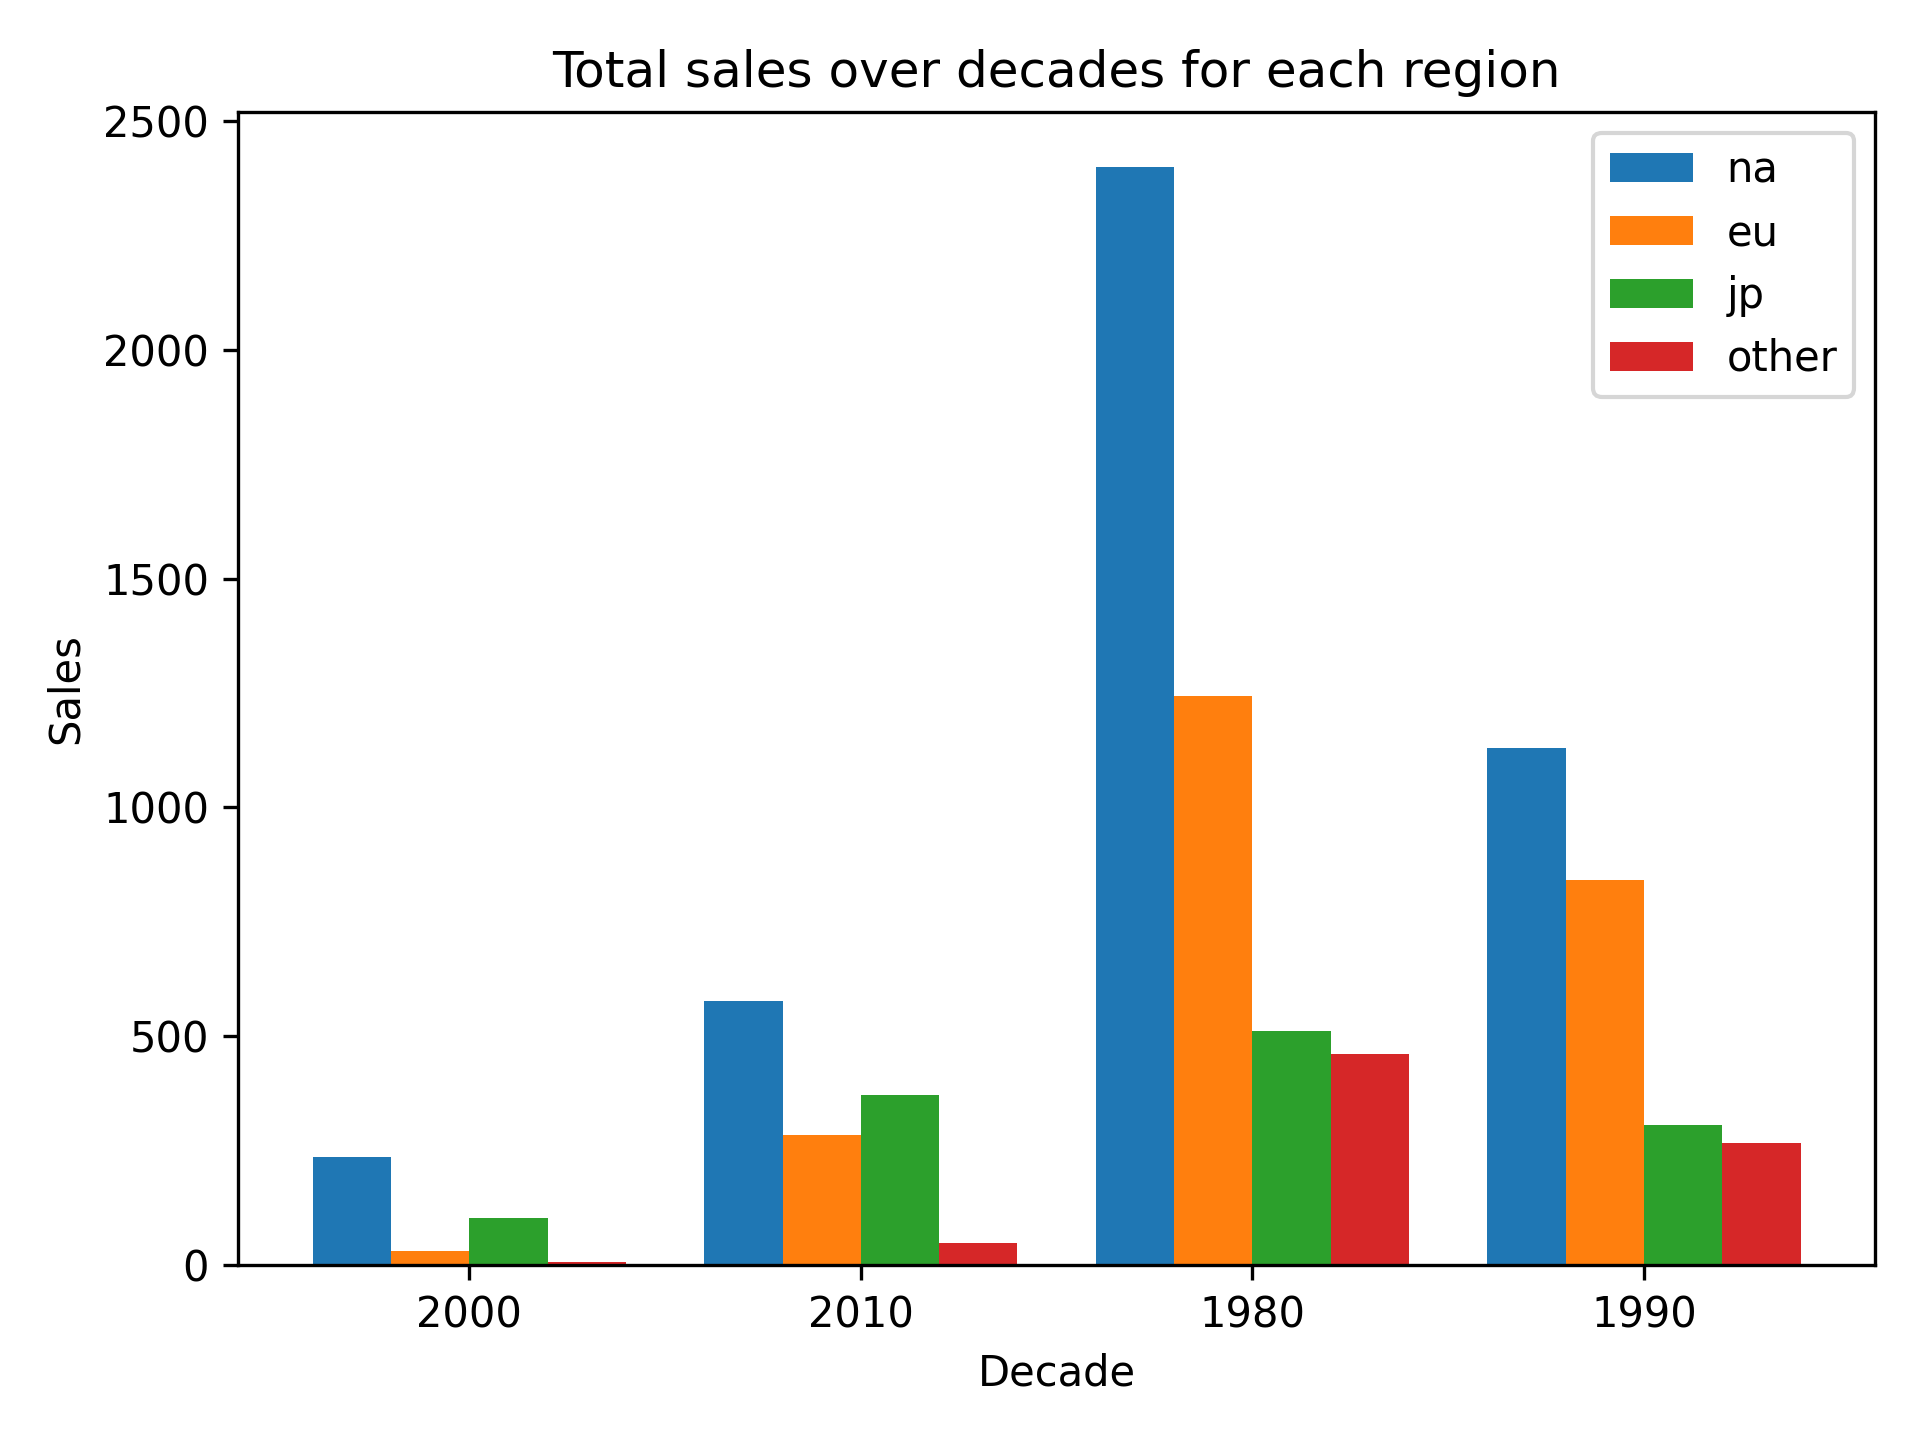
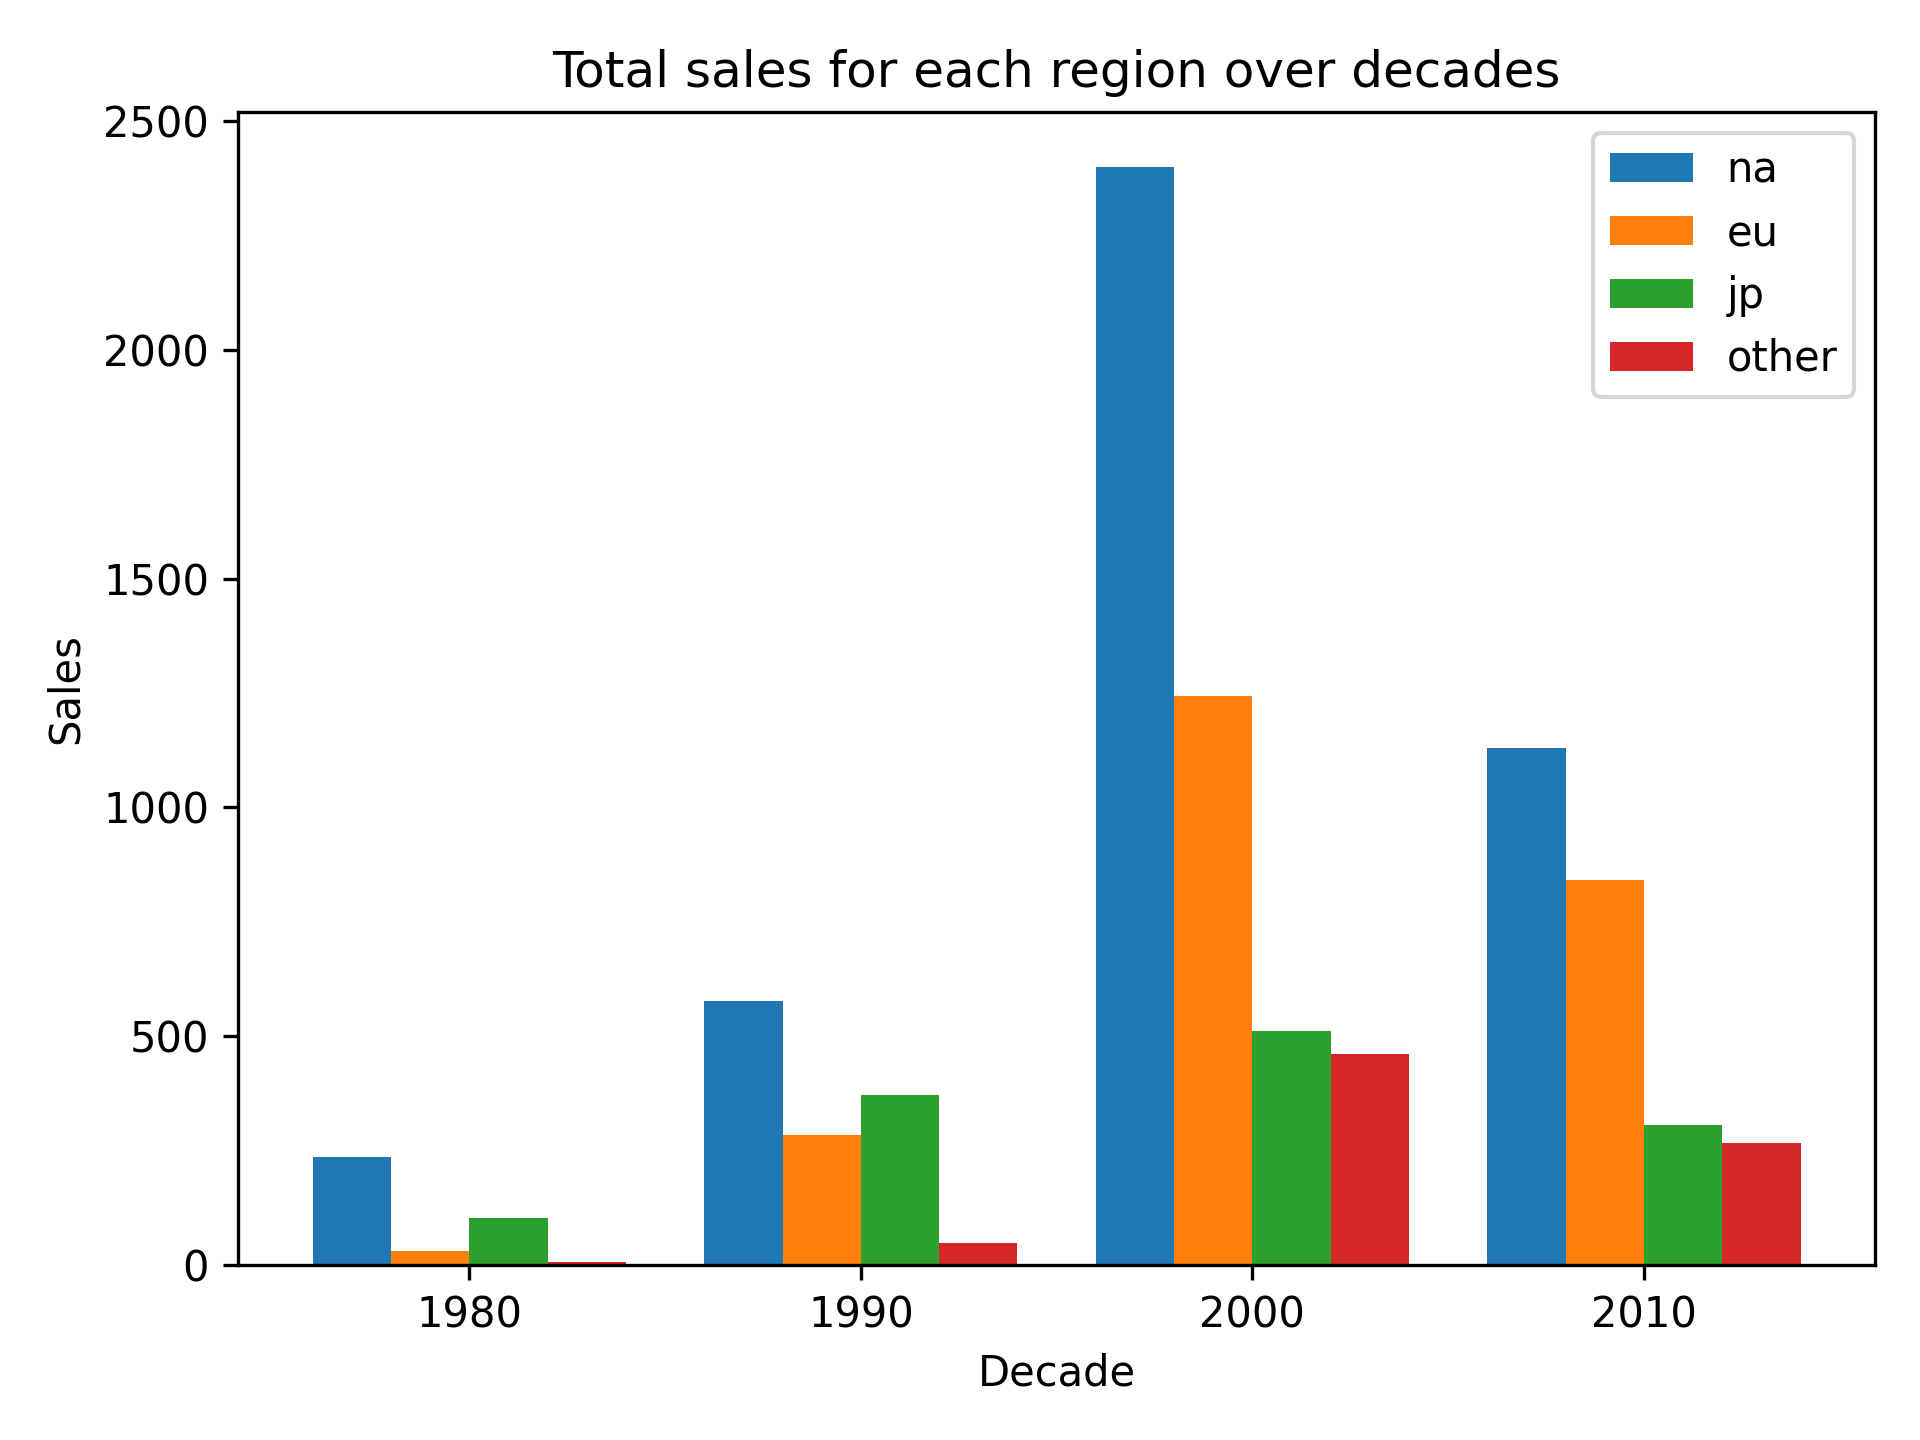
fix: fix the title

diff --git a/2_2_bar_and_pie_charts_matplotlib/1_theory/11_grouped_bar_chart_customization/task.py b/2_2_bar_and_pie_charts_matplotlib/1_theory/11_grouped_bar_chart_customization/task.py
@@ -36,7 +36,7 @@ def plot(games: pd.DataFrame) -> plt.Figure:
 
     ax.set_xlabel("Decade")
     ax.set_ylabel("Sales")
-    ax.set_title("Total sales over decades for each region")
+    ax.set_title("Total sales for each region over decades")
 
     number_of_groups = get_number_of_decades(games)
     group_size = get_number_of_regions(games) + 1

diff --git a/2_2_bar_and_pie_charts_matplotlib/1_theory/11_grouped_bar_chart_customization/tests/test_task.py b/2_2_bar_and_pie_charts_matplotlib/1_theory/11_grouped_bar_chart_customization/tests/test_task.py
@@ -106,4 +106,4 @@ class PlotTestCase(BaseTestMixin):
         self.checkLabel(self.fig.axes[0], "Sales", "y")
 
     def test_5_title(self):
-        self.checkTitle(self.fig.axes[0], "Total sales over decades for each region")
+        self.checkTitle(self.fig.axes[0], "Total sales for each region over decades")
